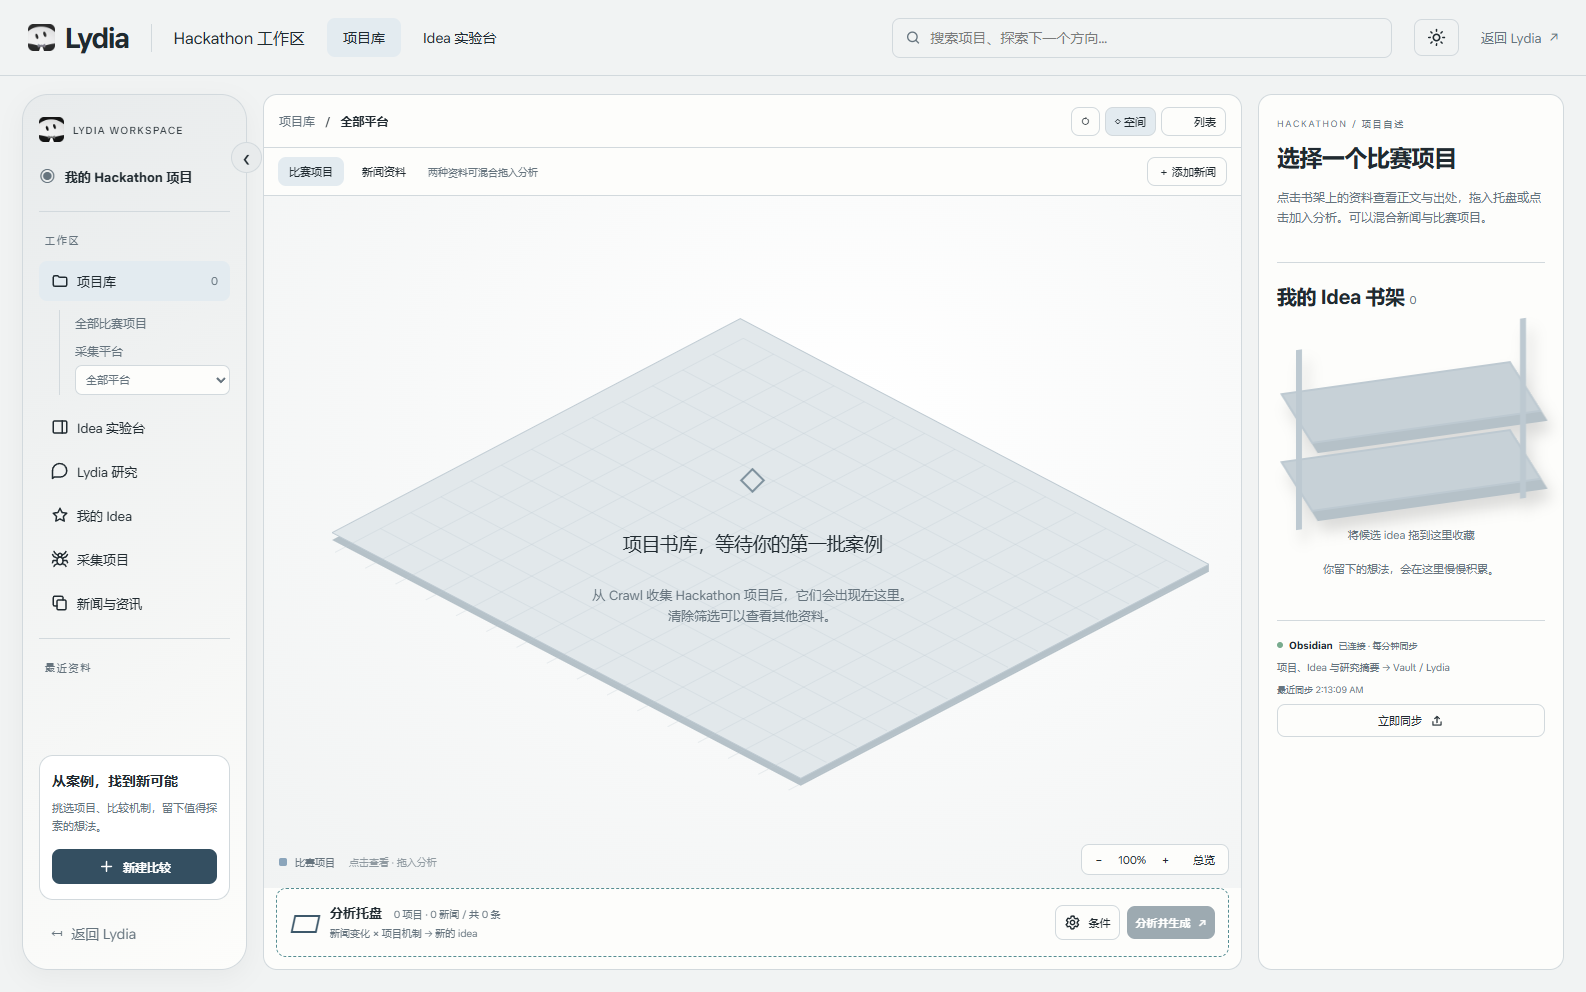
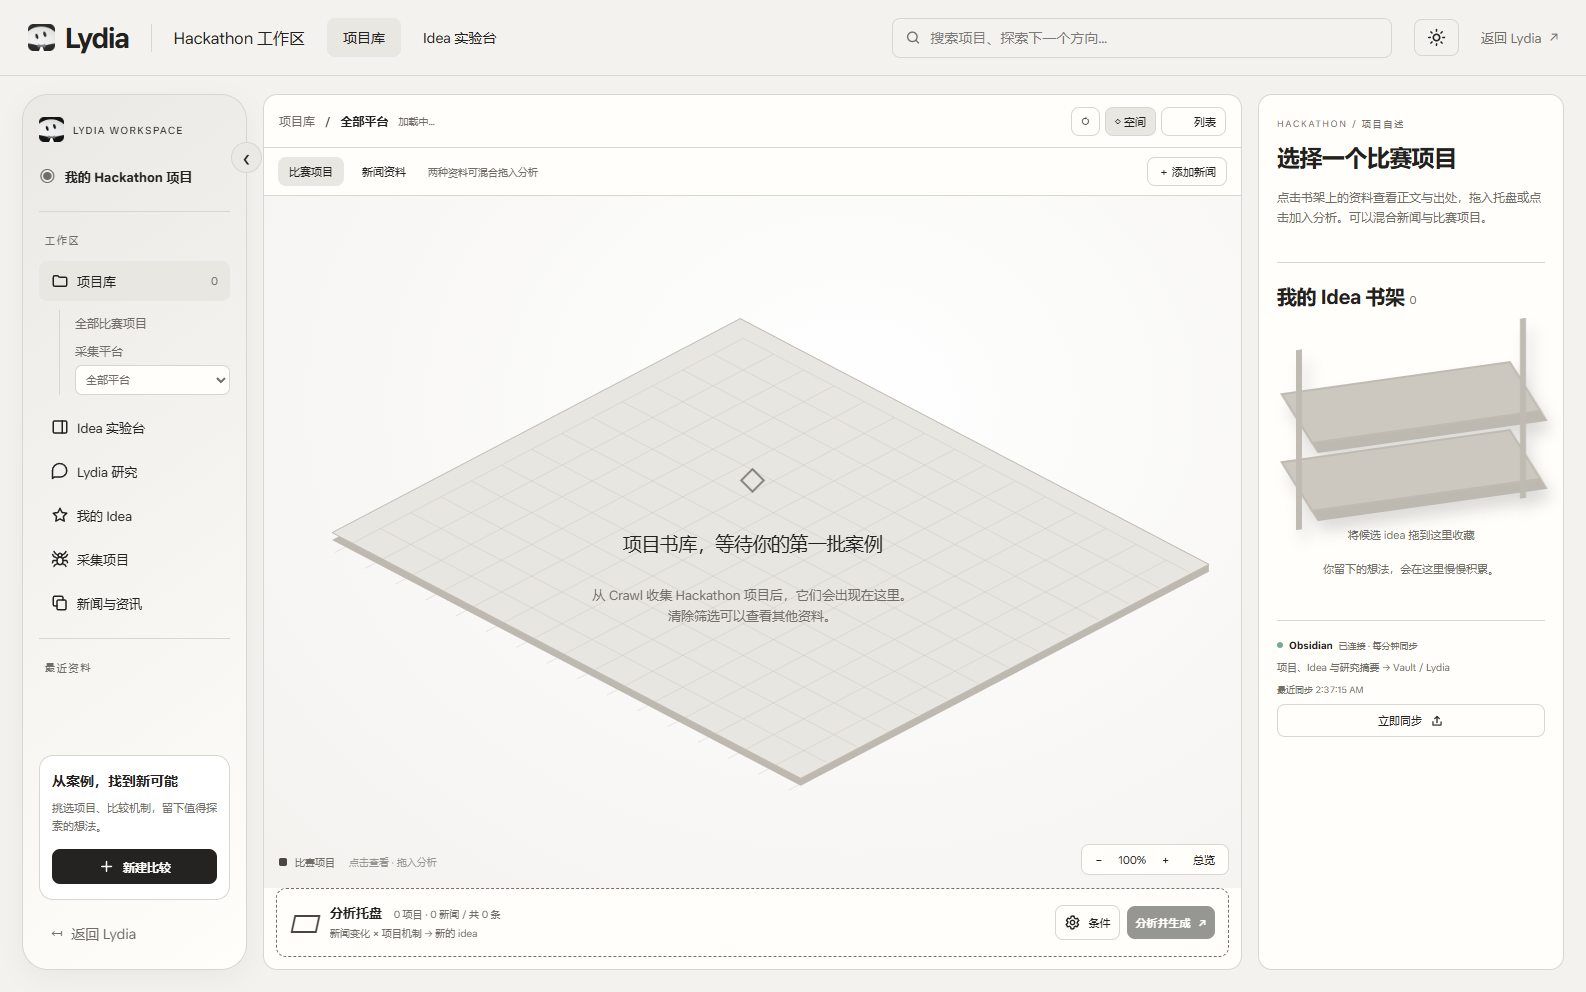
feat: add black knowledge theme and touch pinch zoom

diff --git a/business/scripts/knowledge-touch-test.ts b/business/scripts/knowledge-touch-test.ts
@@ -1,0 +1,73 @@
+import {chromium} from 'playwright-core';
+import http from 'node:http';
+import os from 'node:os';
+import path from 'node:path';
+import {mkdtemp,mkdir,writeFile} from 'node:fs/promises';
+import assert from 'node:assert/strict';
+import {createApp} from '../backend/server.ts';
+import {seedKnowledge} from '../tests/knowledge-fixture.ts';
+const out=path.resolve('../pic/hackathon-idea-lab-2026-11-08/implemented');await mkdir(out,{recursive:true});
+const temp=await mkdtemp(path.join(os.tmpdir(),'lydia-touch-'));
+let app:Awaited<ReturnType<typeof createApp>>;
+const server=http.createServer((req,res)=>void app.handler(req,res));await new Promise<void>(r=>server.listen(0,'127.0.0.1',r));
+const origin='http://127.0.0.1:'+(server.address() as any).port;
+app=await createApp({origin,dataDir:path.join(temp,'pg'),crawlStorageDir:path.join(temp,'crawl'),localAutoLogin:true,startWorker:false});
+await seedKnowledge(app.store,24);
+(app.cli as any).auth=async()=>({loggedIn:true,subscriptionType:'TEST_ONLY'});
+const browser=await chromium.launch({executablePath:process.env.BROWSER_EXECUTABLE||'C:/Program Files/Google/Chrome/Application/chrome.exe',headless:true});
+const checks:any[]=[],errors:string[]=[];
+try{
+ for(const viewport of [{width:390,height:844},{width:1024,height:900}]){
+  const context=await browser.newContext({viewport,hasTouch:true,isMobile:true,deviceScaleFactor:1});
+  await context.addInitScript(()=>localStorage.setItem('lydia-theme','dark'));
+  const page=await context.newPage();page.on('pageerror',e=>errors.push(e.message));
+  await page.goto(origin+'/#/knowledge');await page.locator('.knowledge-object').nth(23).waitFor();
+  const scene=page.locator('.knowledge-scene__viewport'),world=page.locator('.knowledge-scene__world'),client=await context.newCDPSession(page);
+  const box=(await scene.boundingBox())!,cx=box.x+box.width*.52,cy=box.y+box.height*.55;
+  const zoom=async()=>Number((await page.getByLabel('空间缩放比例',{exact:true}).innerText()).replace('%',''));
+  const frame=async()=>world.evaluate(e=>{const r=e.getBoundingClientRect();return{x:r.x,y:r.y,scale:new DOMMatrix(getComputedStyle(e).transform).a};});
+  const touch=async(type:'touchStart'|'touchMove'|'touchEnd'|'touchCancel',points:{id:number;x:number;y:number}[])=>{await client.send('Input.dispatchTouchEvent',{type,touchPoints:points.map(p=>({...p,radiusX:7,radiusY:7,force:1}))});};
+  const pinch=async(from:number,to:number)=>{
+   await touch('touchStart',[{id:1,x:cx-from,y:cy},{id:2,x:cx+from,y:cy}]);
+   for(let i=1;i<=6;i++){const d=from+(to-from)*i/6;await touch('touchMove',[{id:1,x:cx-d,y:cy},{id:2,x:cx+d,y:cy}]);}
+   await touch('touchEnd',[]);
+  };
+  const before=await frame(),anchor={x:(cx-before.x)/before.scale,y:(cy-before.y)/before.scale};
+  await pinch(35,80);assert.ok(await zoom()>180,'Fingers spreading must enlarge scene');
+  const enlarged=await frame();assert.ok(Math.abs((cx-enlarged.x)/enlarged.scale-anchor.x)<2,'Zoom stays anchored under fingers');assert.ok(Math.abs((cy-enlarged.y)/enlarged.scale-anchor.y)<2);
+  const enlargedZoom=await zoom();await pinch(80,35);assert.ok(await zoom()<enlargedZoom,'Pinching inward must shrink scene');
+  await pinch(8,80);assert.equal(await zoom(),400);
+  await pinch(80,2);assert.equal(await zoom(),50);
+  await page.getByRole('button',{name:'总览',exact:true}).click();assert.equal(await zoom(),100);
+  const panBefore=await frame();
+  await touch('touchStart',[{id:3,x:cx,y:cy}]);await touch('touchMove',[{id:3,x:cx+40,y:cy-20}]);await touch('touchEnd',[]);
+  const panAfter=await frame();assert.ok(Math.abs(panAfter.x-panBefore.x-40)<2);assert.ok(Math.abs(panAfter.y-panBefore.y+20)<2);
+  await touch('touchStart',[{id:4,x:cx-25,y:cy},{id:5,x:cx+25,y:cy}]);await touch('touchCancel',[]);
+  await page.getByRole('button',{name:'总览',exact:true}).click();
+  const project=page.locator('.knowledge-object').first();const projectLabel=(await project.getAttribute('aria-label'))!.replace('查看项目 ','');
+  await page.evaluate(()=>{(window as any).__touchEvents=[];for(const type of ['pointerdown','pointerup','pointermove','pointercancel','lostpointercapture'])document.querySelector('.knowledge-scene__viewport')!.addEventListener(type,(event:any)=>{(window as any).__touchEvents.push({type:event.type,id:event.pointerId,x:event.clientX,y:event.clientY,target:event.target.tagName});});});
+  const objectBox=(await project.boundingBox())!,px=objectBox.x+objectBox.width/2,py=objectBox.y+objectBox.height/2,oldTitle=await page.locator('.kw-detail h2').innerText();
+  await touch('touchStart',[{id:6,x:px,y:py},{id:7,x:px+40,y:py}]);await touch('touchMove',[{id:6,x:px-15,y:py},{id:7,x:px+70,y:py}]);
+  const beforeLift=await frame();
+  // CDP touchEnd releases all contacts. Exercise one-contact release with the
+  // browser PointerEvent that actual touch hardware emits for that finger.
+  const secondPointer=await page.evaluate(()=>(window as any).__touchEvents.filter((e:any)=>e.type==='pointerdown').at(-1).id);
+  await scene.dispatchEvent('pointerup',{pointerId:secondPointer,pointerType:'touch',clientX:px+70,clientY:py,button:0,buttons:0});
+  await touch('touchMove',[{id:6,x:px+5,y:py+10}]);await touch('touchEnd',[]);
+  const afterLift=await frame();assert.ok(Math.abs(afterLift.x-beforeLift.x-20)<2);assert.ok(Math.abs(afterLift.y-beforeLift.y-10)<2);
+  assert.equal(await page.locator('.kw-detail h2').innerText(),oldTitle,'Pinch over project must not activate project');
+  await page.getByRole('button',{name:'总览',exact:true}).click();
+  await project.tap();assert.equal(await page.locator('.kw-detail h2').innerText(),projectLabel);
+  assert.equal(await page.evaluate(()=>window.visualViewport!.scale),1,'Scene pinch must not zoom whole page');
+  const palette=await page.locator('.knowledge-workspace').evaluate(el=>{const s=getComputedStyle(el);return{background:s.getPropertyValue('--kw-bg').trim(),floor:s.getPropertyValue('--kw-floor').trim(),rack:s.getPropertyValue('--kw-rack').trim(),active:s.getPropertyValue('--kw-active').trim()};});
+  assert.deepEqual(palette,{background:'#080808',floor:'#121212',rack:'#252525',active:'#292929'});
+  await pinch(35,65);
+  const name=viewport.width<760?'phone-black-pinch.png':'tablet-black-pinch.png';
+  await page.screenshot({path:path.join(out,name),fullPage:true,animations:'disabled'});
+  checks.push({viewport,spreading:true,pinching:true,anchorStable:true,range:'50–400%',singleFingerPan:true,pinchToPanStable:true,noAccidentalSelection:true,cancelRecovery:true,tapSelection:true,pageZoomUnchanged:true,palette,screenshot:name});
+  await context.close();
+ }
+ assert.equal(errors.length,0,errors.join('\n'));
+ const report={status:'TEST_PASSED',timestamp:new Date().toISOString(),checks,pageErrors:errors,fixture:'Native Chromium pinch/pan via CDP; partial-contact release uses a dispatched PointerEvent because CDP touchEnd releases all contacts. Temporary database and TEST_ONLY projects. Not actual iPhone/iPad hardware.'};
+ await writeFile(path.join(out,'touch-report.json'),JSON.stringify(report,null,2));console.log(JSON.stringify(report));
+}finally{await browser.close();await new Promise<void>(r=>server.close(()=>r()));await app.close();}

diff --git a/business/frontend/src/components/KnowledgeScene.jsx b/business/frontend/src/components/KnowledgeScene.jsx
@@ -19,20 +19,57 @@ function Slab({x,y,w,d,z=0,kind='floor'}){
 }
 export default function KnowledgeScene({projects,selected,onSelect,onAdd,materialType='hackathon'}){
  const host=useRef(null),[size,setSize]=useState({width:800,height:650}),[zoom,setZoom]=useState(1),[pan,setPan]=useState({x:0,y:0});
- const gesture=useRef(null);
+ const gesture=useRef(null),pointers=useRef(new Map()),camera=useRef({zoom:1,pan:{x:0,y:0}}),suppressClick=useRef(false);
+ function updateCamera(next){camera.current=next;setZoom(next.zoom);setPan(next.pan);}
  useLayoutEffect(()=>{const observer=new ResizeObserver(entries=>{const r=entries[0].contentRect;setSize({width:r.width,height:r.height});});observer.observe(host.current);return()=>observer.disconnect();},[]);
  const shelves=useMemo(()=>{
   const groups=new Map();for(const p of projects){const key=p.source_id;if(!groups.has(key))groups.set(key,[]);groups.get(key).push(p);}
   const rows=[];for(const [source,items] of groups){for(let i=0;i<items.length;i+=6)rows.push({source,items:items.slice(i,i+6),first:i===0});}
   return rows;
  },[projects]);
- const sceneHeight=Math.max(640,220+shelves.length*78),scale=Math.min(size.width/1060,size.height/sceneHeight)*zoom;
+ const sceneHeight=Math.max(640,220+shelves.length*78),fit=Math.min(size.width/1060,size.height/sceneHeight),scale=fit*zoom;
  const transform=`translate(${(size.width-1060*scale)/2+pan.x}px,${(size.height-sceneHeight*scale)/2+pan.y}px) scale(${scale})`;
- function start(e){if(e.button!==0||e.target.closest('button'))return;gesture.current={x:e.clientX,y:e.clientY,px:pan.x,py:pan.y};e.currentTarget.setPointerCapture(e.pointerId);}
- function move(e){const g=gesture.current;if(g)setPan({x:g.px+e.clientX-g.x,y:g.py+e.clientY-g.y});}
+ const clamp=value=>Math.max(.5,Math.min(4,value));
+ function position(e){const r=host.current.getBoundingClientRect();return {x:e.clientX-r.left,y:e.clientY-r.top};}
+ function beginPinch(){
+  const [a,b]=[...pointers.current.values()],mid={x:(a.x+b.x)/2,y:(a.y+b.y)/2},c=camera.current,s=fit*c.zoom;
+  gesture.current={kind:'pinch',distance:Math.max(8,Math.hypot(a.x-b.x,a.y-b.y)),zoom:c.zoom,
+   anchor:{x:(mid.x-(size.width-1060*s)/2-c.pan.x)/s,y:(mid.y-(size.height-sceneHeight*s)/2-c.pan.y)/s}};
+  suppressClick.current=true;
+ }
+ function start(e){
+  if(e.button!==0)return;
+  if(e.pointerType!=='touch'&&e.target.closest('button')){suppressClick.current=false;return;}
+  if(!pointers.current.size)suppressClick.current=false;
+  const p=position(e);pointers.current.set(e.pointerId,p);
+  if(pointers.current.size===1)gesture.current={kind:'pan',start:p,pan:{...camera.current.pan}};
+  else beginPinch();
+  if(!e.target.closest('button')||pointers.current.size>1)for(const id of pointers.current.keys())e.currentTarget.setPointerCapture(id);
+ }
+ function move(e){
+  if(!pointers.current.has(e.pointerId))return;
+  const p=position(e);pointers.current.set(e.pointerId,p);const g=gesture.current;if(!g)return;
+  if(g.kind==='pinch'&&pointers.current.size>=2){
+   const [a,b]=[...pointers.current.values()],mid={x:(a.x+b.x)/2,y:(a.y+b.y)/2};
+   const nextZoom=clamp(g.zoom*Math.hypot(a.x-b.x,a.y-b.y)/g.distance),s=fit*nextZoom;
+   updateCamera({zoom:nextZoom,pan:{x:mid.x-g.anchor.x*s-(size.width-1060*s)/2,y:mid.y-g.anchor.y*s-(size.height-sceneHeight*s)/2}});
+   e.preventDefault();
+  }else if(g.kind==='pan'){
+   const dx=p.x-g.start.x,dy=p.y-g.start.y;
+   if(Math.hypot(dx,dy)>6)suppressClick.current=true;
+   if(suppressClick.current){updateCamera({zoom:camera.current.zoom,pan:{x:g.pan.x+dx,y:g.pan.y+dy}});e.preventDefault();}
+  }
+ }
+ function end(e){
+  if(!pointers.current.delete(e.pointerId))return;
+  if(pointers.current.size>=2)beginPinch();
+  else if(pointers.current.size===1)gesture.current={kind:'pan',start:[...pointers.current.values()][0],pan:{...camera.current.pan}};
+  else gesture.current=null;
+ }
+ function preventGestureClick(e){if(suppressClick.current&&e.detail!==0){e.preventDefault();e.stopPropagation();}}
  const depth=Math.max(540,shelves.length*98+70);
  return <div className="knowledge-scene" ref={host} aria-label="Hackathon 空间项目库">
-  <div className="knowledge-scene__viewport" onPointerDown={start} onPointerMove={move} onPointerUp={()=>gesture.current=null} onPointerCancel={()=>gesture.current=null}>
+  <div className="knowledge-scene__viewport" onPointerDown={start} onPointerMove={move} onPointerUp={end} onPointerCancel={end} onLostPointerCapture={e=>{if(!e.currentTarget.hasPointerCapture(e.pointerId))end(e);}} onClickCapture={preventGestureClick} onDoubleClickCapture={preventGestureClick} onDragStartCapture={e=>{if(pointers.current.size)e.preventDefault();}}>
    <div className="knowledge-scene__world" style={{width:1060,height:sceneHeight,transform}}>
     <svg className="knowledge-scene__floor" viewBox={`0 0 1060 ${sceneHeight}`} aria-hidden="true">
      <Slab x={-28} y={-24} w={620} d={depth} z={-8}/>
@@ -51,8 +88,8 @@ export default function KnowledgeScene({projects,selected,onSelect,onAdd,materia
    </div>
   </div>
   {!projects.length&&<div className="knowledge-scene__empty"><span className="knowledge-empty-mark">◇</span><h2>{materialType==='news'?'新闻库，等待新的线索':'项目书库，等待你的第一批案例'}</h2><p>{materialType==='news'?'添加公开链接、粘贴新闻正文，或从现有研究资料选择新闻。':'从 Crawl 收集 Hackathon 项目后，它们会出现在这里。'}<br/>清除筛选可以查看其他资料。</p></div>}
-  <div className="knowledge-scene__legend"><i/>比赛项目<span>点击查看 · 拖入分析</span></div>
-  <div className="knowledge-camera"><button type="button" aria-label="缩小空间" onClick={()=>setZoom(z=>Math.max(.65,z-.15))}>−</button><span>{Math.round(zoom*100)}%</span><button type="button" aria-label="放大空间" onClick={()=>setZoom(z=>Math.min(2,z+.15))}>+</button><button type="button" onClick={()=>{setZoom(1);setPan({x:0,y:0});}}>总览</button></div>
+  <div className="knowledge-scene__legend"><i/>{materialType==='news'?'新闻资料':'比赛项目'}<span className="kw-mouse-hint">点击查看 · 拖入分析</span><span className="kw-touch-hint">单指移动 · 双指缩放</span></div>
+  <div className="knowledge-camera"><button type="button" aria-label="缩小空间" onClick={()=>updateCamera({...camera.current,zoom:clamp(camera.current.zoom-.15)})}>−</button><span aria-label="空间缩放比例">{Math.round(zoom*100)}%</span><button type="button" aria-label="放大空间" onClick={()=>updateCamera({...camera.current,zoom:clamp(camera.current.zoom+.15)})}>+</button><button type="button" onClick={()=>{pointers.current.clear();gesture.current=null;updateCamera({zoom:1,pan:{x:0,y:0}});}}>总览</button></div>
  </div>;
 }
 

diff --git a/business/frontend/src/knowledge.css b/business/frontend/src/knowledge.css
@@ -1,5 +1,5 @@
-.knowledge-workspace{--kw-bg:#f1f3f3;--kw-panel:#fdfdfb;--kw-side:#e8ebec;--kw-raised:#fff;--kw-line:#d2d9dd;--kw-text:#202a30;--kw-muted:#66747e;--kw-accent:#3d586a;--kw-active:#e3ebf0;--kw-btn:#344f61;--kw-btn-text:#fff;--kw-floor:#e2e8eb;--kw-edge:#b5c1c8;--kw-rack:#c7d1d7;--kw-grid:#bdc9d1;--kw-selected:#558d92;position:fixed;inset:0;z-index:30;background:var(--kw-bg);color:var(--kw-text);font:14px 'Grok XVF','DM Sans',system-ui,sans-serif;display:flex;flex-direction:column;isolation:isolate}
-:root[data-theme=dark] .knowledge-workspace{--kw-bg:#090c10;--kw-panel:#101419;--kw-side:#171c22;--kw-raised:#1b222b;--kw-line:#2e3742;--kw-text:#e8e8e2;--kw-muted:#a2adb7;--kw-accent:#92aabd;--kw-active:#293a49;--kw-btn:#e9dfcd;--kw-btn-text:#1a2026;--kw-floor:#121c29;--kw-edge:#1c2738;--kw-rack:#283444;--kw-grid:#334258;--kw-selected:#7fb3b7}
+.knowledge-workspace{--kw-bg:#f3f2ef;--kw-panel:#fffefa;--kw-side:#eae9e5;--kw-raised:#fff;--kw-line:#d8d6d0;--kw-text:#22211f;--kw-muted:#716e68;--kw-accent:#4a4742;--kw-active:#e9e7e1;--kw-btn:#242321;--kw-btn-text:#fffdf9;--kw-floor:#e8e6e1;--kw-edge:#bdb9b1;--kw-rack:#ccc8c0;--kw-grid:#bfbab2;--kw-selected:#777066;position:fixed;inset:0;z-index:30;background:var(--kw-bg);color:var(--kw-text);font:14px 'Grok XVF','DM Sans',system-ui,sans-serif;display:flex;flex-direction:column;isolation:isolate}
+:root[data-theme=dark] .knowledge-workspace{--kw-bg:#080808;--kw-panel:#101010;--kw-side:#171717;--kw-raised:#1b1b1b;--kw-line:#303030;--kw-text:#ecebe8;--kw-muted:#a7a5a0;--kw-accent:#c2bfba;--kw-active:#292929;--kw-btn:#eeece6;--kw-btn-text:#161616;--kw-floor:#121212;--kw-edge:#1b1b1b;--kw-rack:#252525;--kw-grid:#3a3a3a;--kw-selected:#c6c1b5}
 .knowledge-workspace *{box-sizing:border-box}
 .knowledge-workspace button,.knowledge-workspace input,.knowledge-workspace select,.knowledge-workspace textarea{font:inherit;color:inherit}
 .knowledge-workspace button{cursor:pointer;display:inline-flex;align-items:center;justify-content:center;gap:8px;border:1px solid var(--kw-line);border-radius:8px;background:transparent;padding:8px 12px;white-space:nowrap;transition:background .15s,border-color .15s}
@@ -71,6 +71,7 @@
 .knowledge-workspace .knowledge-object{position:absolute;width:96px;height:104px;border:0;padding:0;border-radius:0;display:block;pointer-events:auto;background:transparent;cursor:pointer}
 .knowledge-workspace .knowledge-object:hover{background:transparent!important;z-index:5}
 .knowledge-object img{position:absolute;inset:0;width:96px;height:96px;object-fit:contain;filter:drop-shadow(2px 7px 4px #0005);transform-origin:50% 90%;transition:transform .18s;pointer-events:none}
+.knowledge-workspace img[src*="binders-"]{filter:grayscale(1) drop-shadow(2px 6px 4px #0003)}
 .knowledge-object:hover img,.knowledge-object:focus-visible img{transform:translateY(-6px)}
 .knowledge-object__base{position:absolute;bottom:8px;left:9px;width:78px;height:34px;background:transparent;transform:skewY(-27deg);border:1px solid transparent}
 .knowledge-object.is-selected .knowledge-object__base{border:2px solid var(--kw-selected);background:color-mix(in srgb,var(--kw-selected) 20%,transparent);box-shadow:0 0 18px color-mix(in srgb,var(--kw-selected) 17%,transparent)}
@@ -80,8 +81,10 @@
 .knowledge-camera{position:absolute;right:12px;bottom:13px;display:flex;align-items:center;gap:8px;background:var(--kw-panel);border:1px solid var(--kw-line);border-radius:8px;padding:2px 5px;font-size:11px}
 .knowledge-camera button{border:0;padding:5px 8px}
 .knowledge-scene__legend{position:absolute;left:15px;bottom:19px;display:flex;gap:8px;font-size:10px;align-items:center;color:var(--kw-muted);pointer-events:none}
-.knowledge-scene__legend i{width:8px;height:8px;background:#8ba5bb;border-radius:2px}
+.knowledge-scene__legend i{width:8px;height:8px;background:var(--kw-accent);border-radius:2px}
 .knowledge-scene__legend span{opacity:.7;margin-left:6px}
+.knowledge-scene__legend .kw-touch-hint{display:none}
+@media(pointer:coarse){.knowledge-scene__legend .kw-mouse-hint{display:none}.knowledge-scene__legend .kw-touch-hint{display:inline}}
 .knowledge-scene__empty{position:absolute;inset:0;display:flex;flex-direction:column;align-items:center;justify-content:center;text-align:center;pointer-events:none;padding:25px}
 .knowledge-empty-mark{font-size:55px;color:var(--kw-accent);opacity:.6}
 .knowledge-scene__empty h2{font-size:19px;font-weight:500}
@@ -216,7 +219,7 @@
 .kw-tray__items>span{min-width:90px}
 .kw-tray__items [data-kind=news]{border-color:color-mix(in srgb,#b0966f 55%,var(--kw-line))}
 .kw-news-angle{padding:9px 11px;border-left:2px solid #b79e75;background:#b79e7510;border-radius:0 5px 5px 0}
-.kw-news-backdrop{position:fixed;inset:0;z-index:100;background:#05090f88;display:flex;align-items:center;justify-content:center;padding:20px}
+.kw-news-backdrop{position:fixed;inset:0;z-index:100;background:#0008;display:flex;align-items:center;justify-content:center;padding:20px}
 .kw-news-dialog{max-height:90dvh;overflow:auto;width:min(620px,100%);background:var(--kw-panel);border:1px solid var(--kw-line);border-radius:18px;padding:25px;box-shadow:0 20px 80px #0005}
 .kw-news-dialog>header{display:flex;align-items:center;justify-content:space-between;gap:20px}
 .kw-news-dialog>header small{font-size:10px;letter-spacing:2px;color:var(--kw-muted)}

diff --git a/pic/hackathon-idea-lab-2026-11-08/BLACK_AND_TOUCH.md b/pic/hackathon-idea-lab-2026-11-08/BLACK_AND_TOUCH.md
@@ -1,0 +1,28 @@
+# 黑色配色与手机 / 平板双指缩放
+
+2026-11-08。按用户修订，知识库从灰蓝改成黑、炭灰、暖白；保留中性白天模式。原 Lydia 聊天页面未改色。
+
+## 配色
+
+黑夜背景 #080808、面板 #101010、书库地面 #121212、书架 #252525、选中态 #292929。按钮与文字以暖白为主；项目图像在界面中使用灰度，不再显示蓝色。
+
+白天采用暖白、浅灰及黑色按钮。深浅模式继续使用原主题切换与偏好保存机制。
+
+## 触控
+
+- 单指拖动移动书库视角；轻点项目打开详情。
+- 双指张开放大、捏合缩小，范围 50%–400%。
+- 缩放围绕两指中心，并随中心移动，不让整张网页跟着缩放。
+- 抬起一根手指后可继续移动，避免跳动；手势取消后可继续操作。
+- 手势期间不误选或加入项目。桌面项目拖拽与按钮加入继续可用。
+- 底部 + / − 仍可用，“总览”恢复 100% 与初始位置。
+
+## 验证
+
+类型检查、Vite 构建、知识库 8 组浏览器回归通过。
+
+触控专项使用 390×844 手机与 1024×900 平板视口，验证原生 Chromium 双指缩放、中心稳定、范围、单指移动、取消恢复、点选与页面缩放比例保持 1；另用 PointerEvent 模拟单个手指抬起，验证双指到单指的连续移动。CDP 的 touchEnd 会结束全部接触点，因此部分抬起单独测试。
+
+实际 computed 样式核对了黑色背景、地面、书架和选中态，截图已查看。详见 implemented/touch-report.json、phone-black-pinch.png、tablet-black-pinch.png。
+
+这是浏览器触控模拟，不等于已完成真实 iPhone / iPad 硬件验收。

diff --git a/pic/hackathon-idea-lab-2026-11-08/README.md b/pic/hackathon-idea-lab-2026-11-08/README.md
@@ -1,5 +1,7 @@
 # Lydia · Hackathon Idea 实验台
 
+最新用户修订：正式知识库已改为黑/炭灰/暖白配色，手机和平板可单指移动、双指缩放 50%–400%。见 BLACK_AND_TOUCH.md 和 implemented 中的真实页面截图。下方灰蓝配色图保留为历史设计稿。
+
 新闻混合分析已加入：新闻资料与比赛项目可共同拖入托盘，候选解释新闻启发并保留两种来源。见 NEWS_MIXED_IMPLEMENTATION.md；最新专项报告含 8 组，完整功能测试 106 项通过。
 
 已落地（2026-11-08）：参见 implemented/README.md、实际页面截图和报告。正式入口为 Lydia 中的“知识库”；下文为设计历史。当前空间使用 Blender 模型渲染素材与 SVG 交互，原型与真实模型验证边界详见实施说明。
